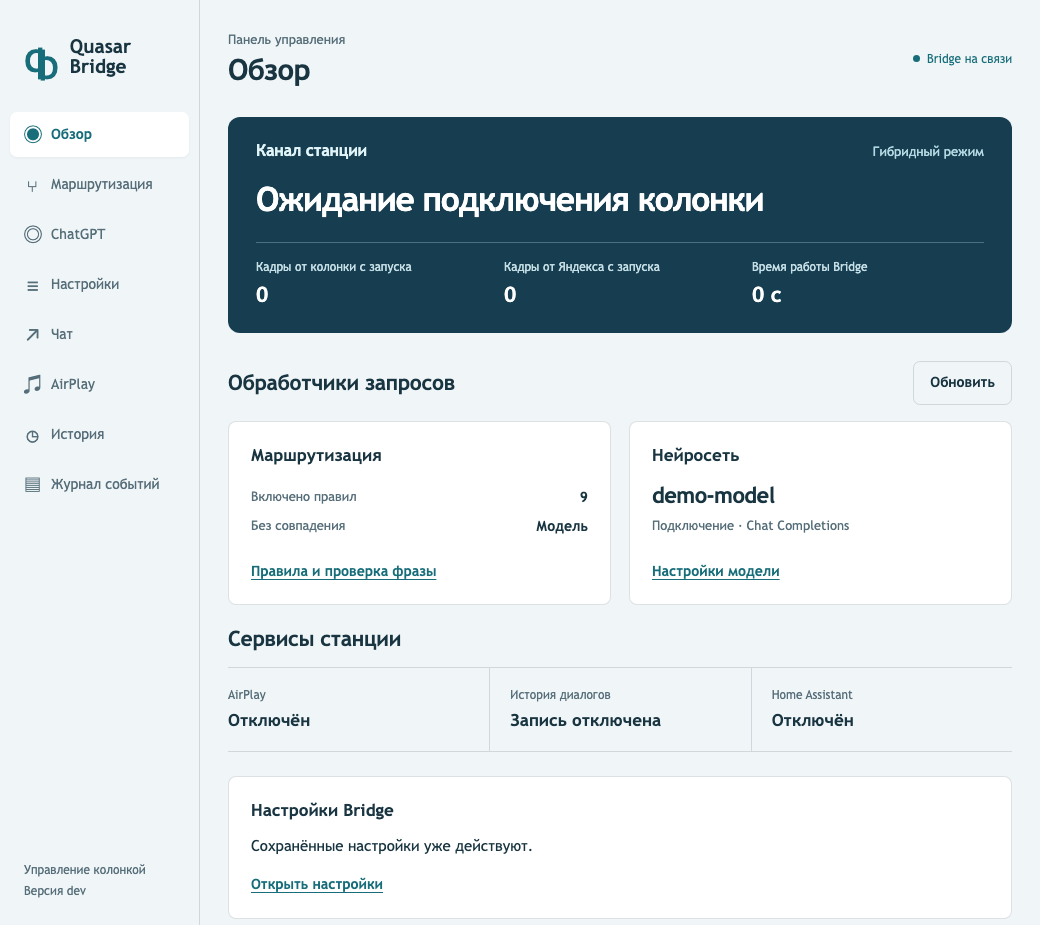
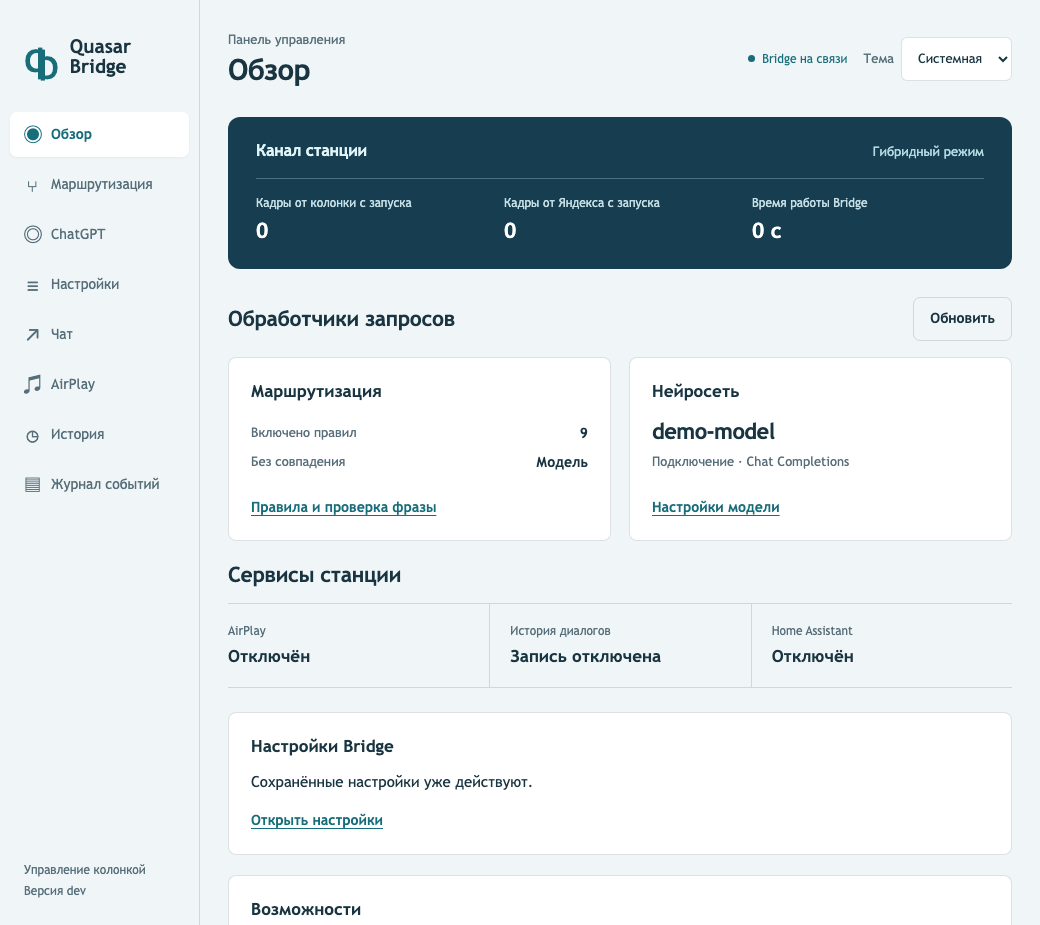
Remove the station connection count from the dashboard

diff --git a/cmd/quasar-bridge/diagnostics.html b/cmd/quasar-bridge/diagnostics.html
@@ -41,7 +41,6 @@
       <h2 id="overview-title" class="visually-hidden">Состояние Bridge</h2>
       <section class="channel" aria-labelledby="channel-title">
         <div class="channel-head"><h2 id="channel-title">Канал станции</h2><span id="overview-mode">Проверяем режим…</span></div>
-        <p id="station-state" class="channel-status">Проверяем подключение…</p>
         <div class="channel-meters"><div><span>Кадры от колонки с запуска</span><strong id="frames-up">—</strong></div><div><span>Кадры от Яндекса с запуска</span><strong id="frames-down">—</strong></div><div><span>Время работы Bridge</span><strong id="channel-uptime">—</strong></div></div>
       </section>
       <div class="section-heading"><h2>Обработчики запросов</h2><button id="refresh-status" type="button" class="quiet">Обновить</button></div>

diff --git a/cmd/quasar-bridge/diagnostics.js b/cmd/quasar-bridge/diagnostics.js
@@ -109,8 +109,6 @@ function renderStatus(data) {
   if (data.version) byId("version").textContent = "Версия " + data.version;
   byId("overview-mode").textContent = ({ hybrid: "Гибридный режим", observe: "Наблюдение", proxy: "Прокси" })[data.mode] || data.mode || "Работает";
   byId("routing-observe").hidden = data.mode !== "observe";
-  const sessions = data.speaker_subscriptions?.length;
-  byId("station-state").textContent = sessions === undefined ? "Сведения о подключении недоступны" : sessions ? "Активных соединений с колонками: " + sessions : "Ожидание подключения колонки";
   byId("frames-up").textContent = data.client_frames?.toLocaleString("ru-RU") ?? "—";
   byId("frames-down").textContent = data.server_frames?.toLocaleString("ru-RU") ?? "—";
   byId("channel-uptime").textContent = uptimeText(data.uptime_seconds);

diff --git a/cmd/quasar-bridge/diagnostics.css b/cmd/quasar-bridge/diagnostics.css
@@ -243,8 +243,7 @@ footer { display:flex; gap:12px; border-top:1px solid var(--line); padding:22px 
 .channel-head,.channel-meters { display:flex; justify-content:space-between; align-items:baseline; gap:16px; }
 .channel-head h2 { font-size:16px; font-weight:600; color:#e1f4f8; }
 .channel-head>span { color:#b5d9e3; font-size:13px; }
-.channel-status { font-size:clamp(23px,3.2vw,38px); font-weight:600; letter-spacing:-.035em; line-height:1.2; margin:18px 0 22px; text-wrap:balance; }
-.channel-meters { border-top:1px solid #497181; padding-top:15px; }
+.channel-meters { border-top:1px solid #497181; margin-top:16px; padding-top:15px; }
 .channel-meters>div { flex:1; }
 .channel-meters span,.channel-meters strong { display:block; }
 .channel-meters span { color:#c6dfe6; font-size:12px; }
